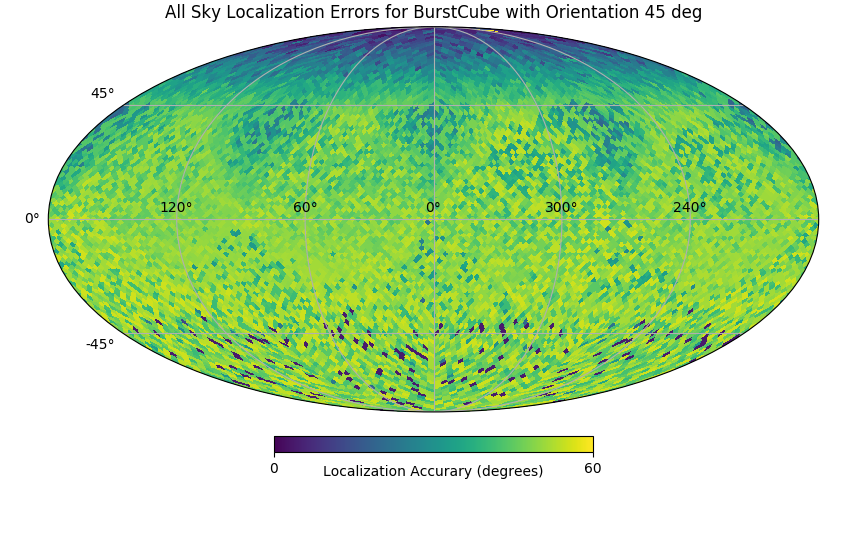
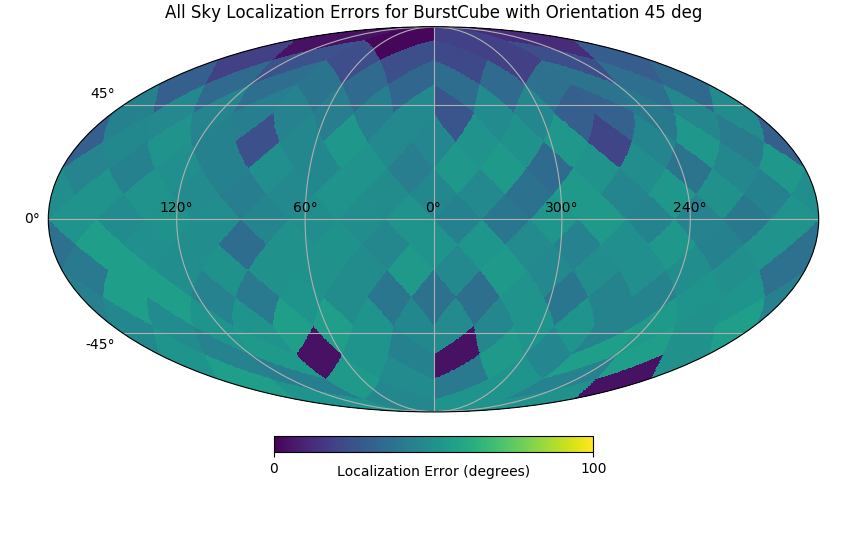
ready to put this code back home.

diff --git a/BurstCube/NoahSim/runnoahsims.py b/BurstCube/NoahSim/runnoahsims.py
@@ -1,10 +1,10 @@
-NSIDE = 32
+NSIDE = 8
 STRENGTH = 500
 BACKGROUND = 1000
-TILT = 45
+TILT = 75
 ALTERNATING = False
 TEST = False
-TALK = False
+TALK = True
 plot = True
 #%matplotlib inline only a notebook feature. 
 
@@ -13,7 +13,7 @@ Parameters
 ----------
 
 NSIDE : int
-	A power of 2, corresponding to the number of pixels to occupy TSM (ie NSIDE = 8 => 768 pixels, etc.)
+	Must be a power of 2, corresponding to the number of pixels to occupy TSM (ie NSIDE = 8 => 768 pixels, etc.)
 
 STRENGTH : float
 	The desired strength of the incident GRBs. 
@@ -43,8 +43,11 @@ sim1 = Sky(NSIDE,STRENGTH)
 
 #run this file, and you immediately get
 testcube = BurstCube(BACKGROUND,TILT,alternating =ALTERNATING)
-_ = testcube.initialize #supress output for now, but it is now a property so we chilling. 
-
+if TALK:
+    print("Initializing...")
+_ = testcube.initialize #supress output, this creates the ideal response database for reference. 
+if TALK: 
+    print("done!")
 
 offsets , errors = testcube.response2GRB(sim1,talk=TALK,test = TEST)
 
@@ -53,18 +56,18 @@ if plot:
 #Only difference is the graphs are opened in the notebook, as opposed to saved. 
     from healpy import newvisufunc
     import matplotlib.pyplot as plt
-    newvisufunc.mollview(offsets,min=0, max=60,unit='Localization Accurary (degrees)',graticule=True,graticule_labels=True)
+    newvisufunc.mollview(offsets,min=0, max=15,unit='Localization Offset (degrees)',graticule=True,graticule_labels=True)
     if type(ALTERNATING) == int:
         plt.title('All Sky Localization Accuracy for BurstCube with Orientation ' + str(TILT) +' by '+str(ALTERNATING) +' deg' )  #should add something about design too! 
     #plt.savefig('offset'+'tilt'+str(TILT)+'s'+str(STRENGTH)+'bg'+str(BACKGROUND)+'.png')
        	plt.savefig('offset'+str(TILT)+'by'+str(ALTERNATING)+'s'+str(STRENGTH)+'bg'+str(BACKGROUND)+'.png')
 
     else:
-        plt.title('All Sky Localization Accuracy for BurstCube with Orientation ' + str(TILT) + ' deg' )  #should add something about design too! 
+        plt.title('All Sky Localization Offsets for BurstCube with Orientation ' + str(TILT) + ' deg' )  #should add something about design too! 
        	plt.savefig('offset'+str(TILT)+'s'+str(STRENGTH)+'bg'+str(BACKGROUND)+'.png')
 
     plt.figure()
-    newvisufunc.mollview(errors,min=0, max=60,unit='Localization Accurary (degrees)',graticule=True,graticule_labels=True)
+    newvisufunc.mollview(errors,min=0, max=100,unit='Localization Error (degrees)',graticule=True,graticule_labels=True)
     
     if type(ALTERNATING) == int:
         plt.title('All Sky Localization Errors for BurstCube with Orientation ' + str(TILT) +' by '+str(ALTERNATING) +' deg' )  #should add something about design too! 

diff --git a/BurstCube/NoahSim/NoahCube.py b/BurstCube/NoahSim/NoahCube.py
@@ -280,9 +280,8 @@ class BurstCube():
             
             sourceAng = GRB.sourceangs[i]
             if talk:
-                print("Testing burst @ " + str(rad2deg(sourceAng))+", sampling it " + str(nsamples)+ " time(s)")
+                print("For bursts @ " + str(rad2deg(sourceAng)))
 
-            
             sourcexyz = ang2vec(sourceAng[0],sourceAng[1]) #cartesian position of the burst at this position
             loop = 0 #I'm going to want to sample each sky position more than once,
                     #here's where I define how many times that is
@@ -392,8 +391,8 @@ class BurstCube():
            # nanmask = nanmask = np.isnan(locunc)
            # locunc = locunc[~nanmask]
             if talk:
-                print("Offset: " + str(mean(loc_offsets)))
-                print("Error: " + str(mean(loc_errors)))
+                print("Avg offset: " + str(mean(loc_offsets)))
+                print("Std. Error: " + str(mean(loc_errors)))
                 print(" ")
             skyvals.append(mean(loc_offsets))
             skyunc.append(mean(loc_error))

diff --git a/BurstCube/NoahSim/burstgrid.py b/BurstCube/NoahSim/burstgrid.py
@@ -1,5 +1,5 @@
 """
-This file serves effectively as a grid search, I will be trying to tune the parameters of the burstcube model, primarily
+This file effectively serves as a grid search, I will be trying to tune the parameters of the burstcube model, primarily
  the tilt(and whether or not it will be alternating) and use this as a means to optimize / identify the best setup 
  for localization. I'm primarily concerned with how BurstCube performs when at least one detector is capable or seeing
  the burst, so will only track this effectiveness over that segment of the sky. 

diff --git a/BurstCube/NoahSim/README.md b/BurstCube/NoahSim/README.md
@@ -1,9 +1,32 @@
-In the "out with the old" notebook, I've updated the simulation so now it runs lightyears faster than the initial code. 
+I've updated the simulation so now it runs lightyears faster than the initial one I submitted at the end of my internship, essentially proving I was able to do what I was paid for 3 months for in the span of a week. Whoops!  
 
 It still retains the same capabilities, and is now actually a useful tool for scientific use!
 
 What's left is to update the functions used to deploy the simulation, print out a few plots, and try out a couple of alternating versions to track their effectiveness. 
 
+
+The method now works as follows. For any given burstcube orientation, there are 4 detectors, and due to a burst, there will be a corresponding # of counts resulting. Looking a little like this. 
+
+
+index    A    B    C    D 
+-----   ---  ---  ---  ---
+some #  ai   bi   ci   di
+some #  aj   bj   cj   dj
+some #  ak   bk   ck   dk
+
+
+and so on. All these numbers
+
+ Leveraging the abilities of healpy, we know that this index corresponds to a certain pixel, and with it the sky coordinates of the burst. 
+
+
+ By recreating this table but with the affected bursts via a detector with gaussian noise + some background counts, we can use a chi squared minimization routine to locate the estimated pixel # and therefore inferred localization. 
+
+
+Combining this software with the MEGAlib simulations and estimations of BurstCube individual detector response, this is a powerful tool to affirm the science case of BurstCube and gradually test and compare different designs. 
+
+
+For more information, please consult the readthedocs documentation, or the contained source code. 
 
 
 
@@ -16,4 +39,4 @@ In here is all of Noah Kasmanoff's python based simulations of BurstCube. The si
 To run these simulations, on your terminal enter "python runnoahsims.py". Inside runnoahsims.py the parameters are designated. For more information please refer to the documentation available. 
 
 
-email me at nkasmanoff@gmail.com for further questions/issues. 
+please email me at nkasmanoff@gmail.com for further questions/issues. 
